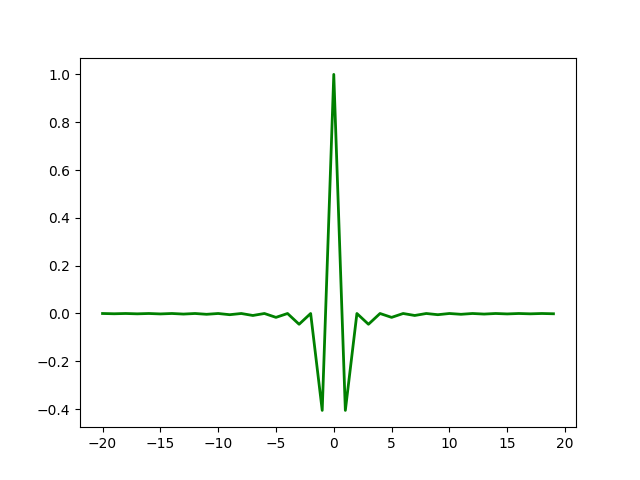
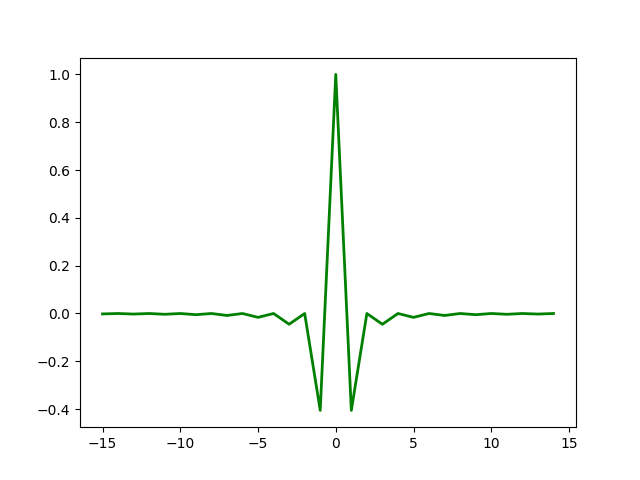
Fix filtering

diff --git a/project.py b/project.py
@@ -211,9 +211,9 @@ def filterSinogram(sinogram, kernel):
 
 img = loadImage('./tomograf-zdjecia/Shepp_logan.jpg')
 n = 200
-skip = 3
-spread = 160
-kernelSize = 40
+skip = 2
+spread = 170
+kernelSize = 30
 emitters, detectors = generateEmittersAndDetectors(n, spread, img)
 sinogram = generateSinogram(skip, emitters, detectors, img)
 reconstructedImage = reconstructImage(sinogram, skip, emitters, detectors, img)
@@ -223,7 +223,7 @@ filteredSinogram = filterSinogram(sinogram, kernel)
 for i in range(len(filteredSinogram)):
     for j in range(len(filteredSinogram[i])):
         if filteredSinogram[i][j] < 0:
-            filteredSinogram[i][j] /= 5
+            filteredSinogram[i][j] /= 15
 filteredSinogram = (filteredSinogram - filteredSinogram.min())/(filteredSinogram.max() - filteredSinogram.min())
 
 fig, ax = plt.subplots()
